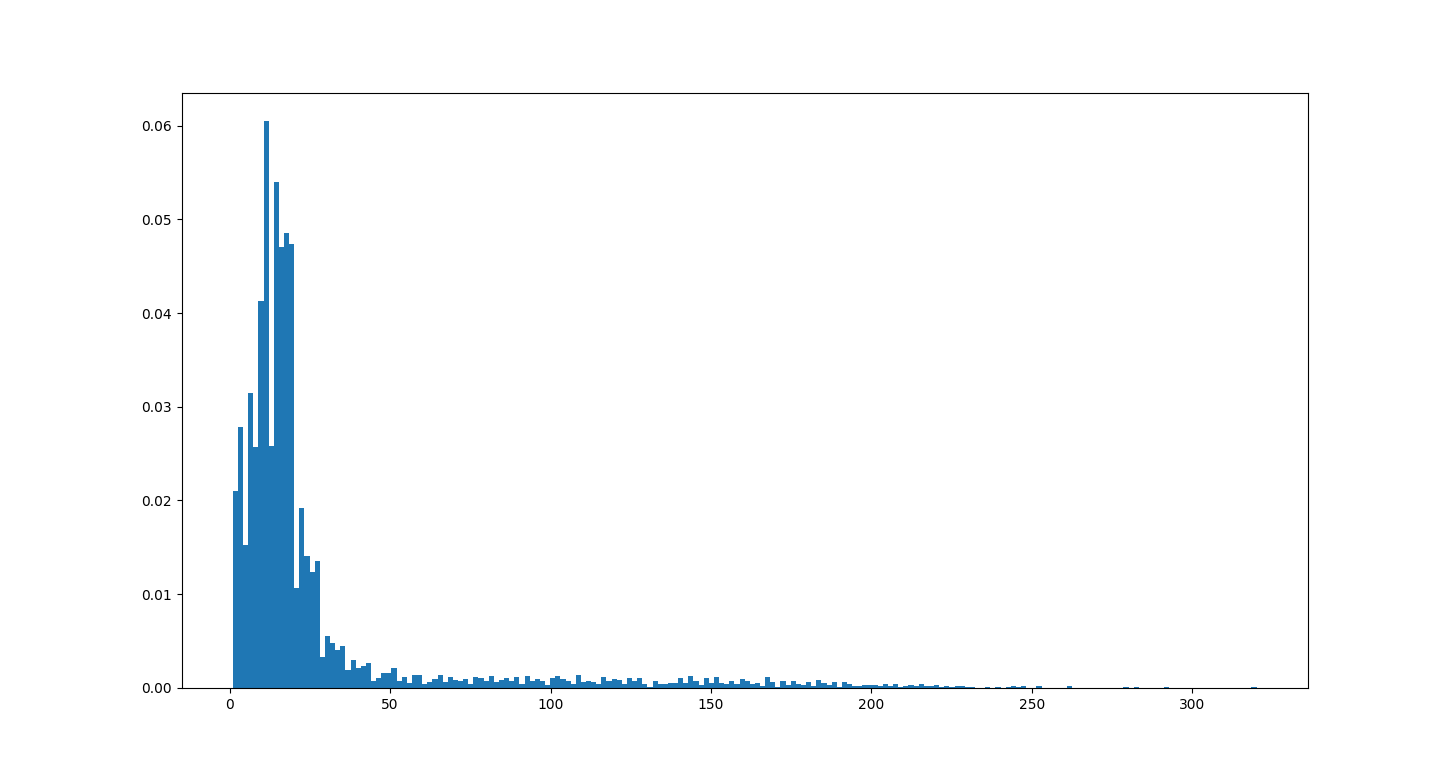
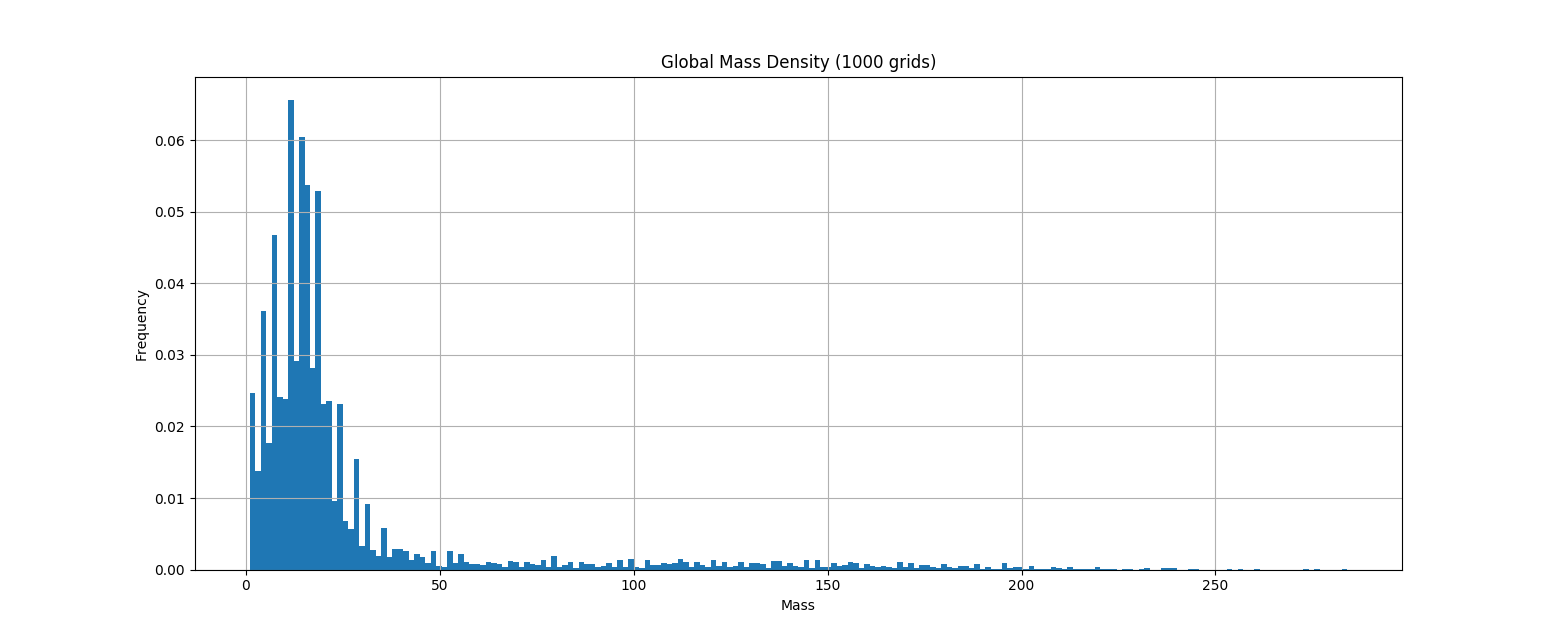
Updated graphs in src and doc

diff --git a/03 - BH Merger Simulation/src/bh-life-v2.py b/03 - BH Merger Simulation/src/bh-life-v2.py
@@ -36,11 +36,10 @@ def randomGrid(N, mass, mass_prob):
     return dat
 
 class BH_Merger_Model():
-    def __init__(self, mass, mass_prob, updateInterval, N, alpha, **kw):
+    def __init__(self, mass, mass_prob, N, alpha, **kw):
         # save params
         self.mass = mass
         self.mass_prob = mass_prob
-        self.updateInterval = updateInterval
         self.N = N
         self.alpha = alpha
 
@@ -71,23 +70,40 @@ class BH_Merger_Model():
 
         # plot benchmakr histogram
         plt.hist(tot_grid, bins=200, normed=True)
+        plt.grid()
+        plt.xlabel('Mass')
+        plt.ylabel('Frequency')
+        plt.title('Global Mass Density (1000 grids)')
+
         H,X = np.histogram(tot_grid)
         plt.show()
 
     def run(self, dmax, save_to_file=""):
         # set up animation
-        fig, ax = plt.subplots(nrows=1, ncols=3, figsize=(12,6))
-        img0 = ax[0].imshow(self.grid, interpolation='nearest')
-        img1 = ax[1]
-        img2 = ax[2]
+        fig, ax = plt.subplots(nrows=1, ncols=3, figsize=(18,5))
 
+        # spatial distribution of BHs
+        img0 = ax[0].imshow(self.grid, interpolation='nearest')
+        ax[0].set_title('BHs Grid')
+
+        # Mass CUmulative Distribution per Iteration
+        img1 = ax[1]
         img1.grid()
+        img1.set_xlabel('Mass')
+        img1.set_ylabel('Counter')
+        img1.set_title('Mass Cum. Distribution by Iteration')
+
+        # Mass Histogram per Iteration
+        img2 = ax[2]
+        img2.grid()
+        img2.set_xlabel('Mass')
+        img2.set_ylabel('Counter')
+        img2.set_title('Mass Histogram by Iteration')
 
         # execution
         self.ani = animation.FuncAnimation(fig, self.__run_animation, fargs=(img0, img1, img2, self.grid, self.N, dmax),
                                     frames=100,
-                                    interval=self.updateInterval,
-                                    save_count=50)
+                                    save_count=10)
 
         if save_to_file != "":
              self.ani.save(save_to_file, fps=30, extra_args=['-vcodec', 'libx264'])
@@ -254,7 +270,6 @@ def main():
     parser.add_argument('--zero-mass-density', dest='zero_mass_density', required=False)
     parser.add_argument('--uniform-mass-max', dest='umassd', required=False)
     parser.add_argument('--mov-file', dest='movfile', required=False)
-    parser.add_argument('--interval', dest='interval', required=False)
    
     args = parser.parse_args()
 
@@ -288,11 +303,6 @@ def main():
     if args.movfile:
         movfile = args.movfile
 
-    # set animation update interval
-    updateInterval = 50
-    if args.interval:
-        updateInterval = int(args.interval)
-
     # setting up the values of BH masses for the grid
     mass = range(umassd)
     mass_prob = [(1 - mass_prob_zero)/(len(mass) - 1) for i in mass]  # uniform mass distribution in 1:umassd
@@ -306,13 +316,13 @@ def main():
 
     if run_type == 1:
         # single run in animation mode
-        model = BH_Merger_Model(mass, mass_prob, updateInterval, N, alpha)
+        model = BH_Merger_Model(mass, mass_prob, N, alpha)
         final_grid = model.run(dmax, save_to_file=movfile)
 
         plt.show()
     else:
         # compute global stats by MC
-        model = BH_Merger_Model(mass, mass_prob, updateInterval, N, alpha)
+        model = BH_Merger_Model(mass, mass_prob, N, alpha)
         model.run_stats(dmax)
 
 
